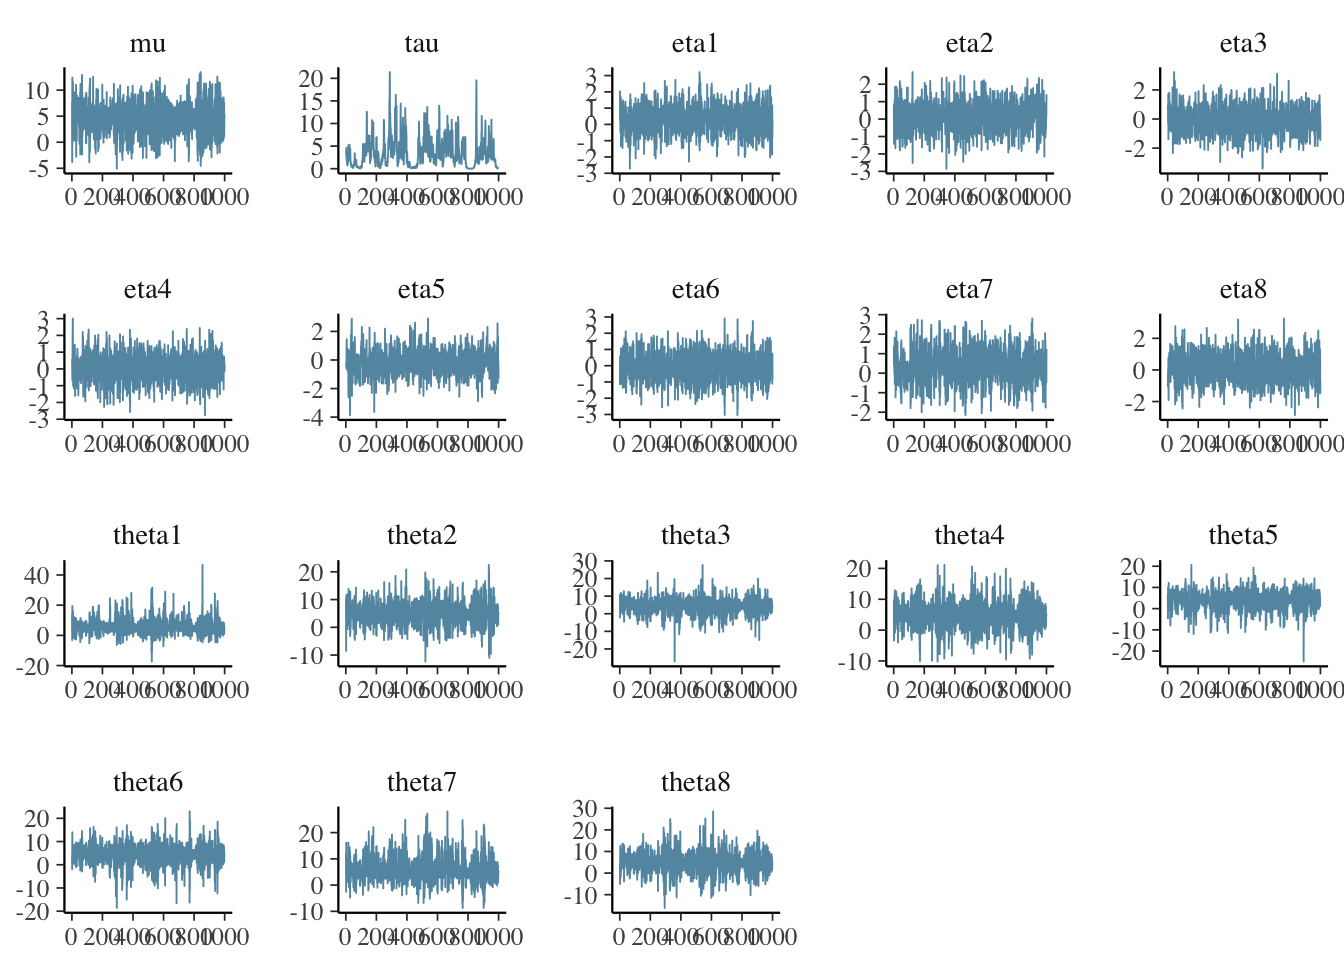
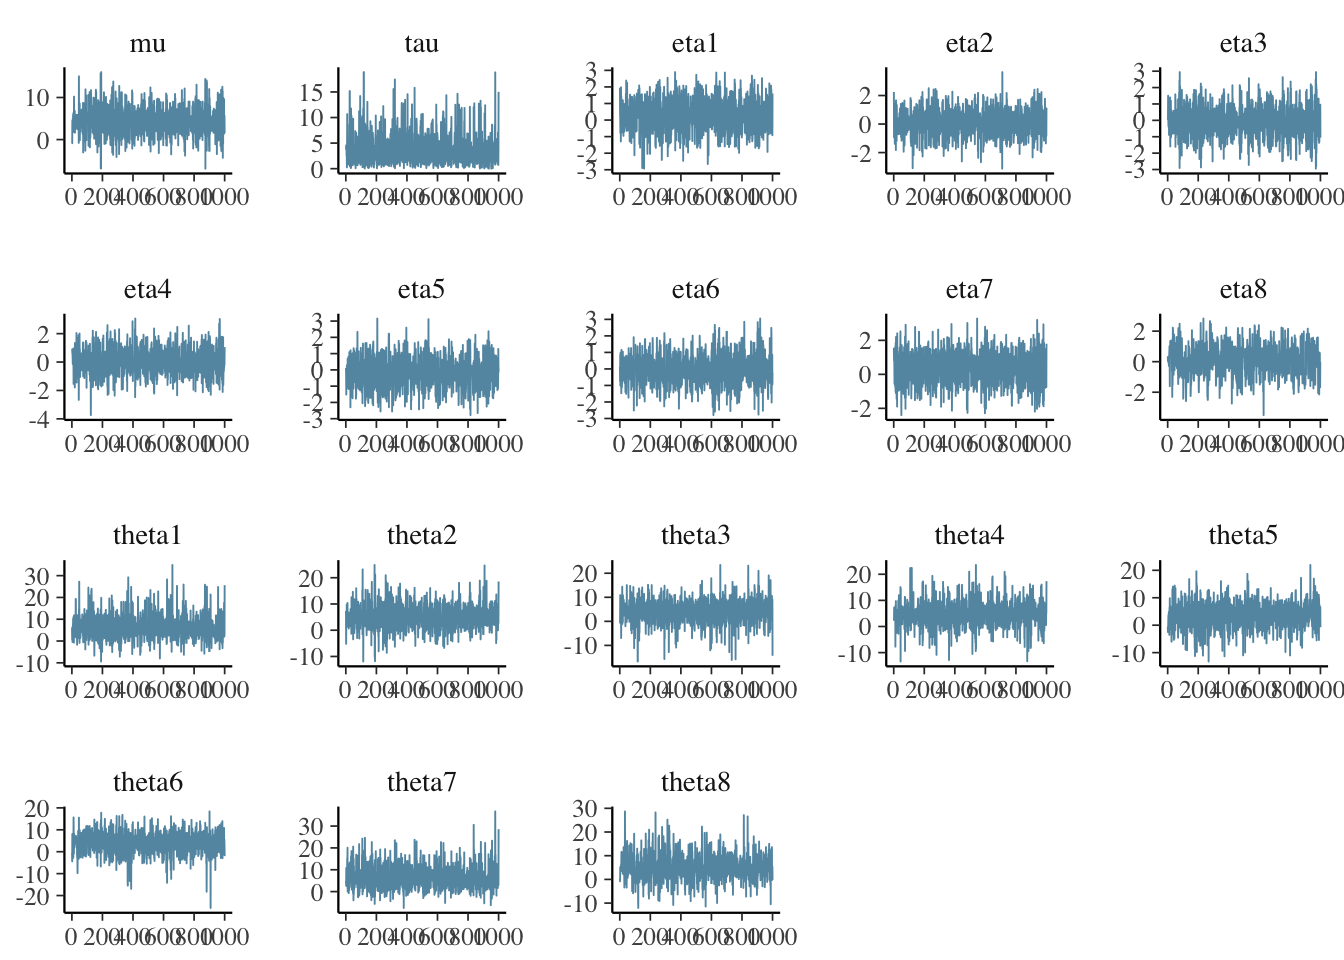
add extra stuff

diff --git a/content/post/2018-05-02-eight-schools-excercise-with-greta.html b/content/post/2018-05-02-eight-schools-excercise-with-greta.html
@@ -52,7 +52,7 @@ sigma &lt;- as_data(sigma)</code></pre>
 </div>
 <div id="model" class="section level2">
 <h2>Model</h2>
-<p><a href="http://www.stat.columbia.edu/~gelman/research/published/tau9.pdf">This is two-level normal model</a> of data <span class="math inline">\(y_ij\)</span> with group-level effects <span class="math inline">\(\alpha_j\)</span> .</p>
+<p><a href="http://www.stat.columbia.edu/~gelman/research/published/tau9.pdf">This is two-level normal model</a> of data <span class="math inline">\(y_{ij}\)</span> with group-level effects <span class="math inline">\(\alpha_j\)</span> .</p>
 <p><span class="math display">\[y_{ij} \sim N(\mu + \alpha_j, \sigma_y)~~i=1,\dots,~n_j, j=1,\dots,J\]</span><br />
 <span class="math display">\[\alpha_j \sim N(0, \sigma_\alpha)~~j=1,\dots,J\]</span></p>
 <p>We are going to use more efficient <a href="https://github.com/stan-dev/rstan/wiki/RStan-Getting-Started">parametrisation</a>, where <span class="math inline">\(\alpha_j\)</span> is represented as product of two new parameters <span class="math inline">\(\tau\)</span> and <span class="math inline">\(\eta\)</span>:</p>
@@ -105,46 +105,46 @@ render_graph(gr)</code></pre>
 ##    plus standard error of the mean:
 ## 
 ##            Mean     SD Naive SE Time-series SE
-## mu      4.36370 3.3184  0.10494        0.05141
-## tau     3.50257 3.1679  0.10018        0.35683
-## eta1    0.29603 0.9188  0.02905        0.03021
-## eta2    0.15130 0.8818  0.02789        0.02225
-## eta3   -0.05955 0.9624  0.03043        0.03107
-## eta4    0.05366 0.8945  0.02829        0.02070
-## eta5   -0.15363 0.9193  0.02907        0.03171
-## eta6   -0.07532 0.9498  0.03004        0.01399
-## eta7    0.35685 0.9416  0.02978        0.03034
-## eta8    0.13894 0.9627  0.03044        0.02426
-## theta1  6.15519 5.6841  0.17975        0.21139
-## theta2  4.99836 4.5533  0.14399        0.08183
-## theta3  4.04913 4.9821  0.15755        0.17047
-## theta4  4.69458 4.6120  0.14584        0.07620
-## theta5  3.63468 4.6571  0.14727        0.13448
-## theta6  3.98083 5.0202  0.15875        0.11400
-## theta7  6.29936 5.3118  0.16797        0.19241
-## theta8  4.97647 5.3321  0.16862        0.09913
+## mu      4.41999 3.3835  0.10700        0.04916
+## tau     3.66488 3.1328  0.09907        0.08798
+## eta1    0.32018 0.9640  0.03048        0.02394
+## eta2    0.10683 0.9315  0.02946        0.01720
+## eta3   -0.10183 0.9977  0.03155        0.01188
+## eta4    0.07661 0.9417  0.02978        0.01537
+## eta5   -0.19127 0.9337  0.02953        0.02557
+## eta6   -0.07693 0.9283  0.02935        0.02523
+## eta7    0.37023 0.9808  0.03102        0.01665
+## eta8    0.10169 0.9707  0.03070        0.04772
+## theta1  6.20317 5.5854  0.17663        0.14157
+## theta2  5.08417 4.7493  0.15019        0.09803
+## theta3  3.87128 5.0298  0.15905        0.12167
+## theta4  4.75538 4.9721  0.15723        0.11272
+## theta5  3.54405 4.6514  0.14709        0.11038
+## theta6  4.04317 4.8541  0.15350        0.13519
+## theta7  6.55150 5.4725  0.17306        0.12886
+## theta8  4.90535 5.3562  0.16938        0.17198
 ## 
 ## 2. Quantiles for each variable:
 ## 
-##            2.5%     25%      50%    75%  97.5%
-## mu     -2.31122  2.2560  4.33692 6.5561 11.164
-## tau     0.02778  1.0467  2.81416 5.1032 11.664
-## eta1   -1.44115 -0.3289  0.27336 0.9338  2.091
-## eta2   -1.65204 -0.4649  0.22013 0.7535  1.850
-## eta3   -1.90598 -0.7132 -0.04901 0.5343  1.877
-## eta4   -1.68009 -0.5392  0.06667 0.6893  1.747
-## eta5   -1.96976 -0.7652 -0.13945 0.4195  1.684
-## eta6   -1.86807 -0.7547 -0.05544 0.6120  1.712
-## eta7   -1.50237 -0.2730  0.34093 1.0413  2.064
-## eta8   -1.67739 -0.5388  0.14972 0.7952  2.015
-## theta1 -3.46941  2.7981  5.58982 8.7139 19.467
-## theta2 -3.68412  2.0514  4.79466 7.8221 14.323
-## theta3 -6.34771  1.1306  4.35801 7.0174 13.294
-## theta4 -4.41621  2.0587  4.49617 7.5106 14.068
-## theta5 -6.38756  1.0031  3.81691 6.5375 12.027
-## theta6 -6.75651  1.0966  4.04573 7.0255 13.754
-## theta7 -3.21940  2.8882  5.79979 8.8860 18.139
-## theta8 -5.89734  1.9780  4.80303 8.1593 15.624</code></pre>
+##          2.5%     25%      50%    75%  97.5%
+## mu     -2.115  2.1934  4.44570 6.3953 11.287
+## tau     0.184  1.4164  2.81378 5.0309 12.233
+## eta1   -1.602 -0.3129  0.32861 0.9875  2.110
+## eta2   -1.713 -0.4727  0.11499 0.7071  1.885
+## eta3   -2.056 -0.7716 -0.10134 0.5497  1.863
+## eta4   -1.839 -0.5486  0.10541 0.6944  1.903
+## eta5   -2.034 -0.7978 -0.20241 0.4059  1.656
+## eta6   -1.870 -0.6799 -0.06987 0.5023  1.830
+## eta7   -1.539 -0.3318  0.40136 1.0757  2.153
+## eta8   -1.826 -0.5258  0.15042 0.7497  1.984
+## theta1 -3.130  2.6685  5.36729 8.9644 19.829
+## theta2 -3.980  2.0018  4.84128 7.8792 15.324
+## theta3 -7.036  1.1238  3.91047 6.9806 13.755
+## theta4 -5.561  1.8840  4.61607 7.4645 15.604
+## theta5 -6.628  0.8906  3.66715 6.4629 12.495
+## theta6 -5.266  1.3047  4.16499 7.1935 13.447
+## theta7 -1.929  2.8156  5.74359 9.4510 18.653
+## theta8 -5.350  1.7469  4.59658 7.6252 16.461</code></pre>
 <p>MCMC chain and the parameter estimates can be plotted using <code>bayesplot</code> package:</p>
 <pre class="r"><code>library(bayesplot)</code></pre>
 <pre><code>## This is bayesplot version 1.4.0</code></pre>

diff --git a/themes/hugo-xmin/layouts/partials/foot_custom.html b/themes/hugo-xmin/layouts/partials/foot_custom.html
@@ -2,3 +2,17 @@
 <script async src="//cdn.bootcss.com/mathjax/2.7.1/MathJax.js?config=TeX-MML-AM_CHTML"></script>
 
 <script async src="//yihui.name/js/center-img.js"></script>
+
+{{ if .IsPage }}
+  {{ template "_internal/disqus.html" . }}
+{{ end }}
+
+{{ template "_internal/google_analytics.html" . }}
+
+<script src="//cdn.bootcss.com/highlight.js/9.12.0/highlight.min.js"></script>
+<script src="//cdn.bootcss.com/highlight.js/9.12.0/languages/r.min.js"></script>
+
+<script>
+hljs.configure({languages: []});
+hljs.initHighlightingOnLoad();
+</script>

diff --git a/themes/hugo-xmin/layouts/_default/single.html b/themes/hugo-xmin/layouts/_default/single.html
@@ -3,6 +3,16 @@
 <h1><span class="title">{{ .Title }}</span></h1>
 {{ with .Params.author }}<h2 class="author">{{ . }}</h2>{{ end }}
 {{ if (gt .Params.date 0) }}<h2 class="date">{{ .Date.Format "2006/01/02" }}</h2>{{ end }}
+<p class="terms">
+  {{ range $i := (slice "categories" "tags") }}
+  {{ with ($.Param $i) }}
+  {{ $i | title }}:
+  {{ range $k := . }}
+  <a href='{{ relURL (print "/" $i "/" $k | urlize) }}'>{{$k}}</a>
+  {{ end }}
+  {{ end }}
+  {{ end }}
+</p>
 </div>
 
 <main>

diff --git a/themes/hugo-xmin/layouts/_default/list.html b/themes/hugo-xmin/layouts/_default/list.html
@@ -8,6 +8,8 @@
 
 <ul>
   {{ range (where .Data.Pages "Section" "!=" "") }}
+  {{ $paginator := .Paginate .Data.Pages }}
+  {{ range $paginator.Pages }}
   <li>
     <span class="date">{{ .Date.Format "2006/01/02" }}</span>
     <a href="{{ .URL }}">{{ .Title }}</a>
@@ -16,3 +18,4 @@
 </ul>
 
 {{ partial "footer.html" . }}
+

diff --git a/themes/hugo-xmin/layouts/partials/head_custom.html b/themes/hugo-xmin/layouts/partials/head_custom.html
@@ -1,0 +1,2 @@
+
+<link href="//cdn.bootcss.com/highlight.js/9.12.0/styles/github.min.css" rel="stylesheet">
